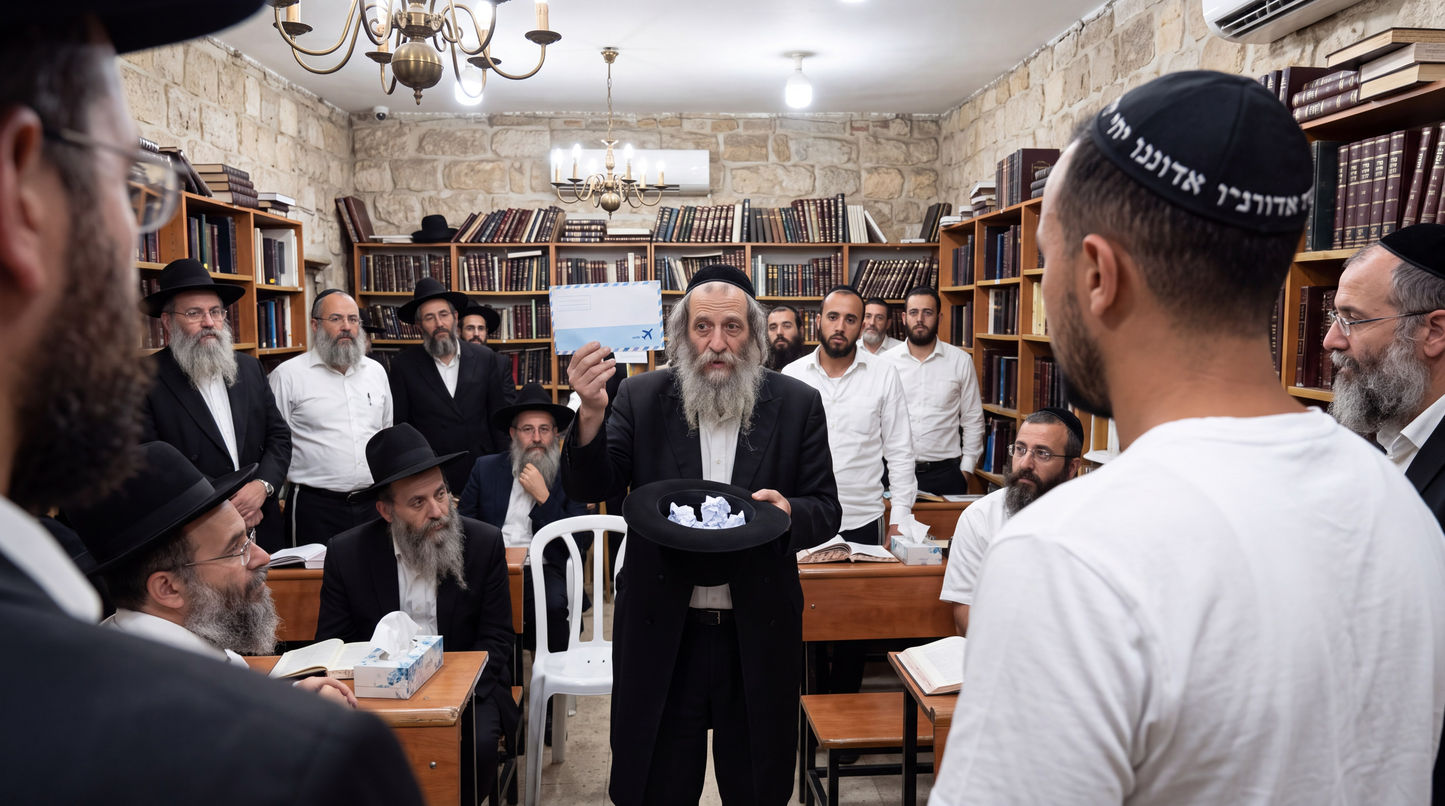
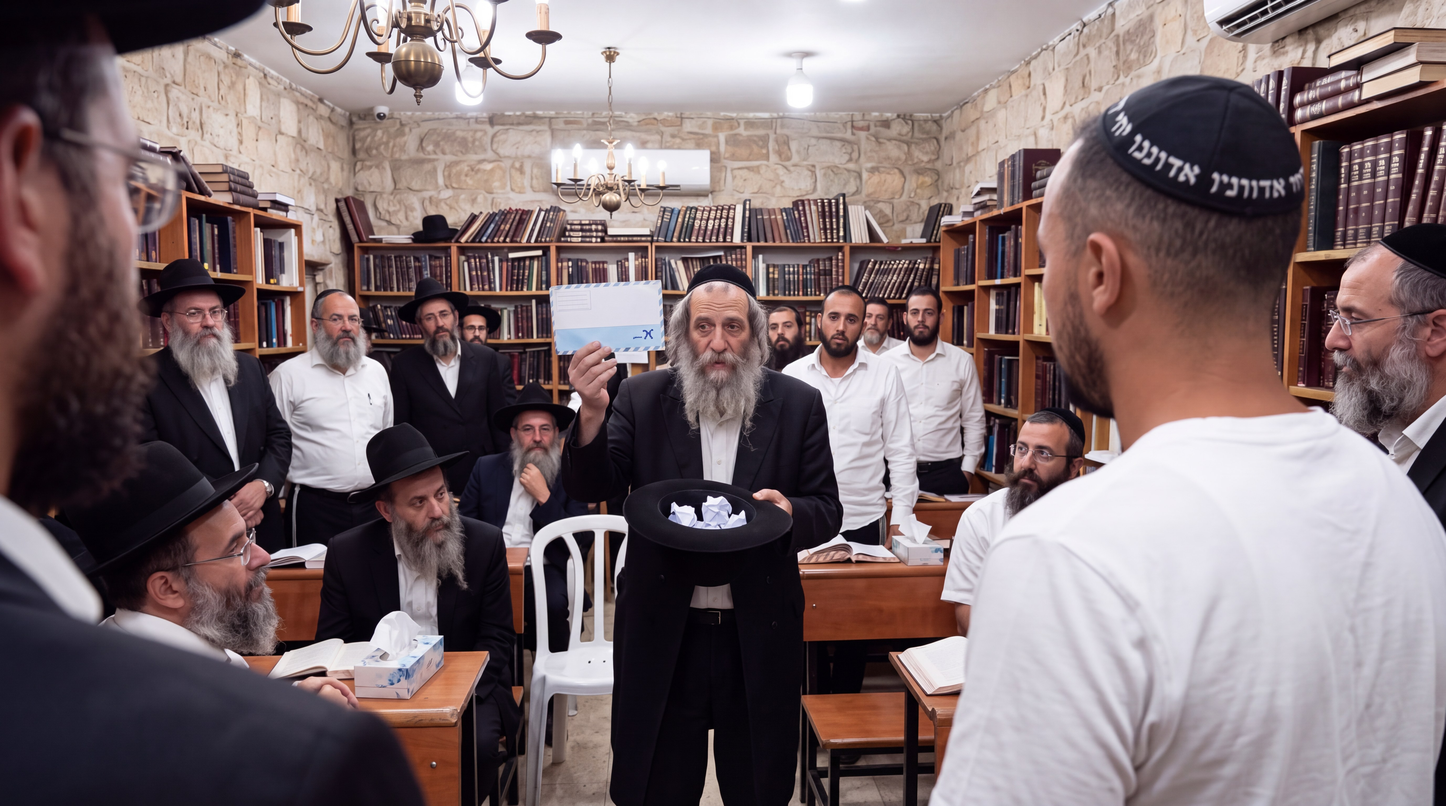
Shirel & Lyron : retouches ciblées de la réaction et du Goral
Claude-Session: https://claude.ai/code/session_01FDkXSruYP2nSK7GDo2br1M

diff --git a/outputs/shirel-lyron/04-controle-qualite.md b/outputs/shirel-lyron/04-controle-qualite.md
@@ -131,7 +131,8 @@ Fitted white long-sleeve mini dress in a soft, slightly sheer jersey, high round
 | 1.2a refait à neuf (Samuel : « filtre bizarre » — cause : retouche d'une image déjà retouchée, violation de la règle A2) + 1.4 refait avec le gros plan kippa | 1.2a `d5479c71-3b77-41e6-962b-00e45304498a` : couleurs naturelles, kippa lisible (« אדוננו »), rabbin bouche fermée ✓ · 1.4 `96d693e0-702e-456c-aa5e-295987dcb765` : kippa lisible (« יחי אדוננו »), visage conforme ✓ | 6 |
 | Test 1.4 (kippa à la bonne taille + golfes atténués) | `3cd4f51c-23c8-4aa9-836a-ad3ebaba5017` : kippa nettement plus petite, proche du sheet, lettres lisibles ; golfes à peine visibles ✓. Décor encore sale (ancien prompt) → image de test seulement | 3 |
 | 3 plans Lyron finaux (petite kippa, golfes atténués, chambre propre) | 1.4 `56e1eebd-23ac-4e88-ac2a-21fbcec6dd52` ✓ chambre propre, petite kippa lisible, golfes à peine visibles · 1.2d `23cc3797-0a4e-444f-91b5-5f775c1773d6` : petite kippa ✓ mais golfes encore assez visibles · 1.2a `26f389e7-333a-40ce-9a0c-11ce4915eb91` : ÉCHEC, la retouche n'a pas réduit la kippa (identique à avant) | 9 |
-| **Total dépensé** | | **557 cr** |
+| Retouches ciblées par masque (inpainting) | 1.2d `d9cf4b73-d1b9-4f51-9fbf-b2f77e5257a4` : tempes nettement plus garnies ✓, reste identique (légère teinte plus chaude) · 1.2a `c60ac9c1-9efc-4f77-9347-ffa4364e3a26` : kippa à peine réduite (changement minime) | 6 |
+| **Total dépensé** | | **563 cr** |
 
 **Références Shirel définitives (v5) :** sheet `da688b2a-951a-4108-a7b6-d6e8cca2e108` · photo réelle `5fc6f1cb-77f2-4008-902c-b8287a3862b6` · T1 voyage `e38c01ef-40d5-47a2-afbc-776a7ba2cd00` · T2 `0b9e3e4a-60aa-4238-befb-4832e5befcdf` · T3 `d951d6b5-89e3-4e50-8d18-107bcc6e47a5` · T4 `b8c2ecc2-d75c-4051-a160-1134c45960b7` · Sourires `39c2ea5a-757e-43e5-a729-688fda2fb476`.
 
